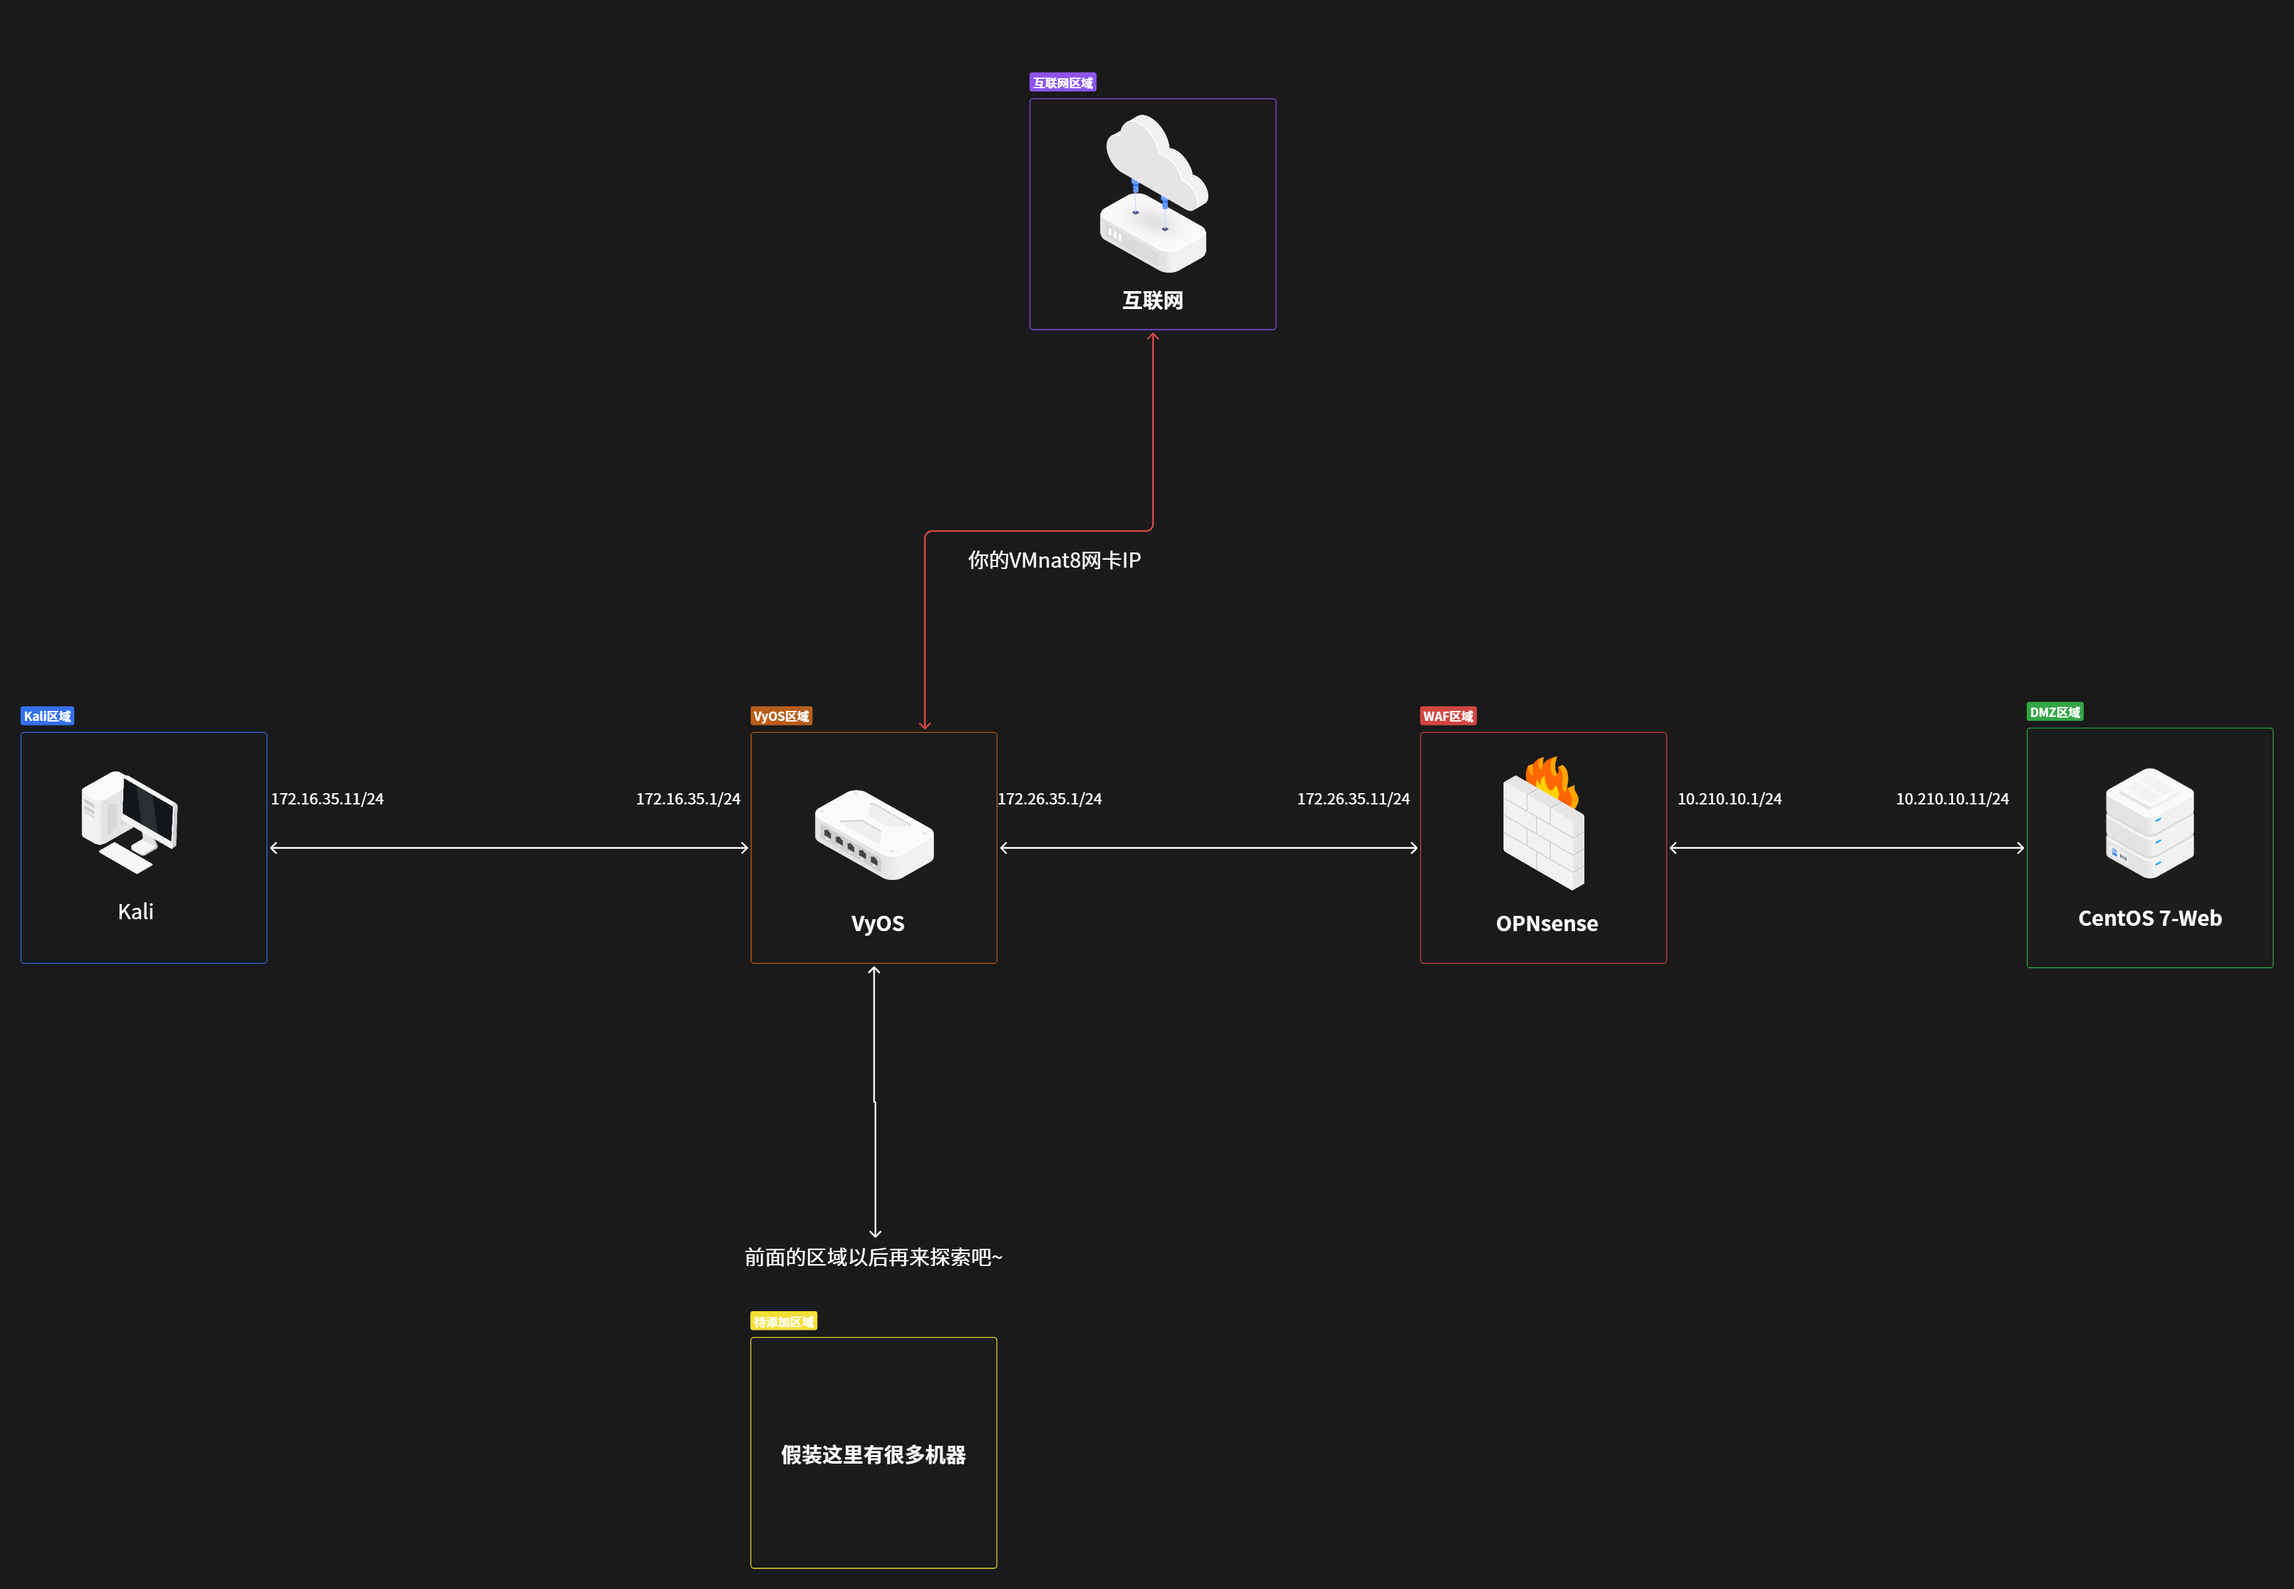
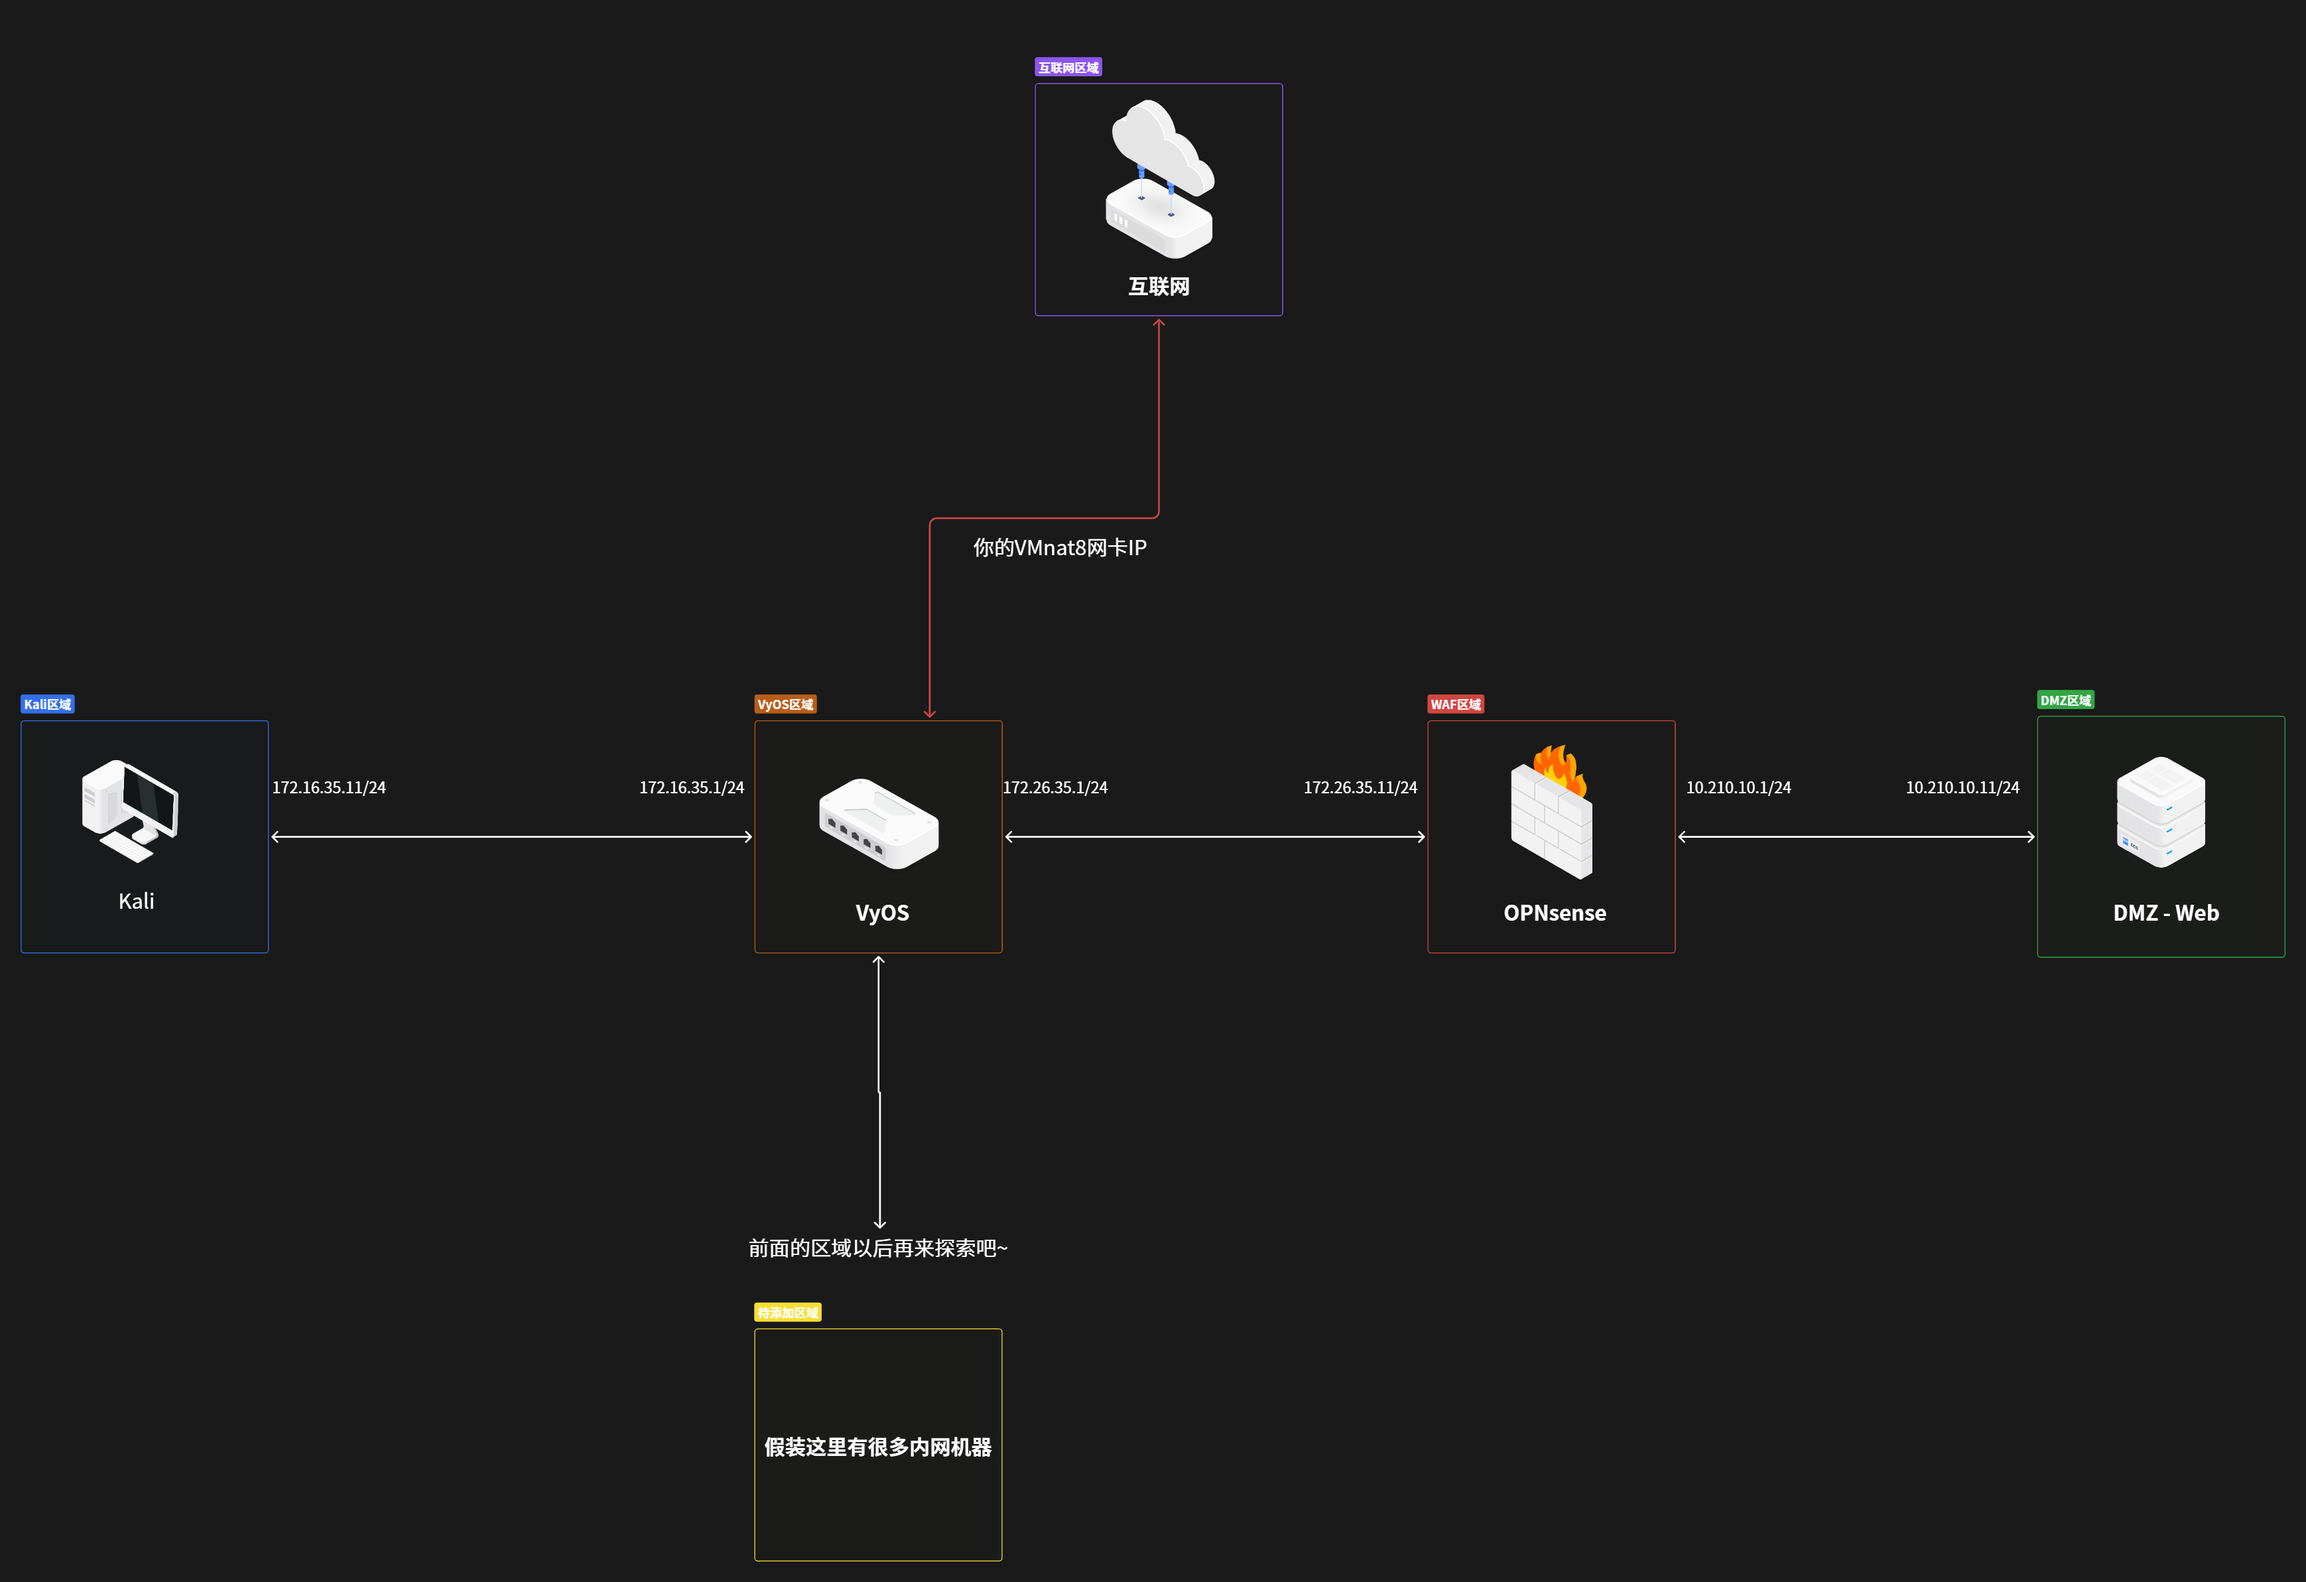
修改部分文章图片显示问题

diff --git a/src/content/posts/what_is_gfw/index.md b/src/content/posts/what_is_gfw/index.md
@@ -1,5 +1,5 @@
 ---
-title: "内网模拟-长城防火墙"
+title: "长城防火墙原理分析&探测手段"
 category: 计算机学习与实验
 tags:
   - "GFW原理"
@@ -31,8 +31,6 @@ published: 2026-05-06
 **A：** 直白点说，就是把你的流量**加密 + 伪装 + 境外中转**，让 GFW 看不懂、拦不住（ 简单理解就是：**翻墙 = 让 GFW 觉得你在访问一个「正常」的国际网站，而不是在翻墙**）
 
 ![](photos/what_is_gfw_1.png)
-
-![](photos/what_is_gfw_2.svg)
 
 | 场景 | 对应演化阶段 | 演示的攻防点 |
 | --- | --- | --- |
@@ -222,7 +220,7 @@ Reality:偷真站门面    → 被动/主动探测都正常,当前最难识别
 
 下面我总结了一个目前比较常见的协议图，可供参考
 
-![](photos/what_is_gfw_3.png)
+![](photos/what_is_gfw_2.png)
 
 **免责与说明**  
 本表格是为帮助理解"翻墙协议演化"而做的**教学性归纳**，服务于本篇文章的技术讨论，不构成任何使用建议，抗审查技术处于持续对抗中，未来实际情况可能与此不同，阅读时请结合协议官方文档与最新研究判断
